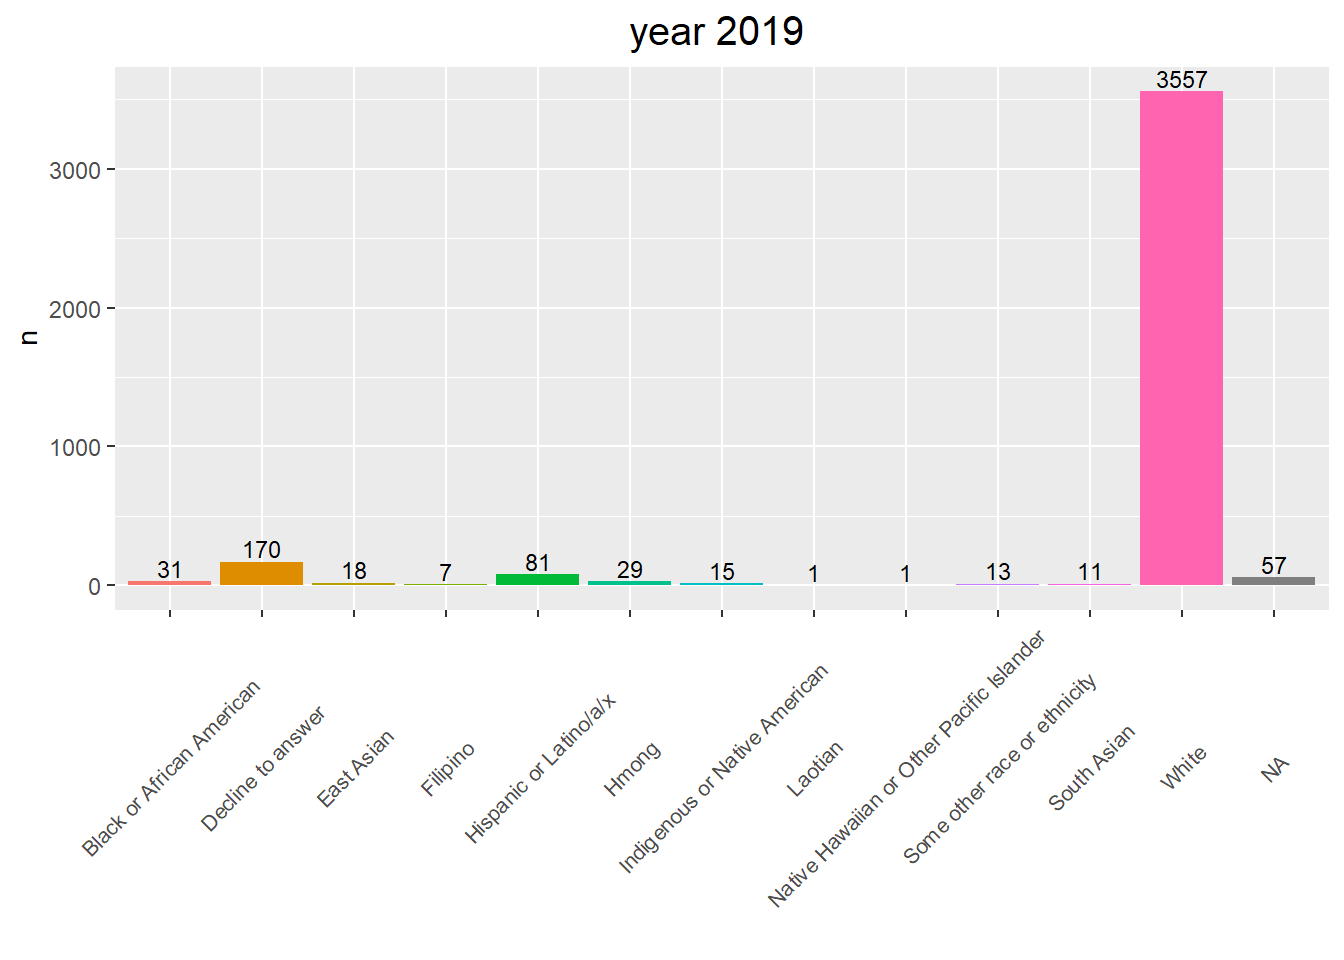
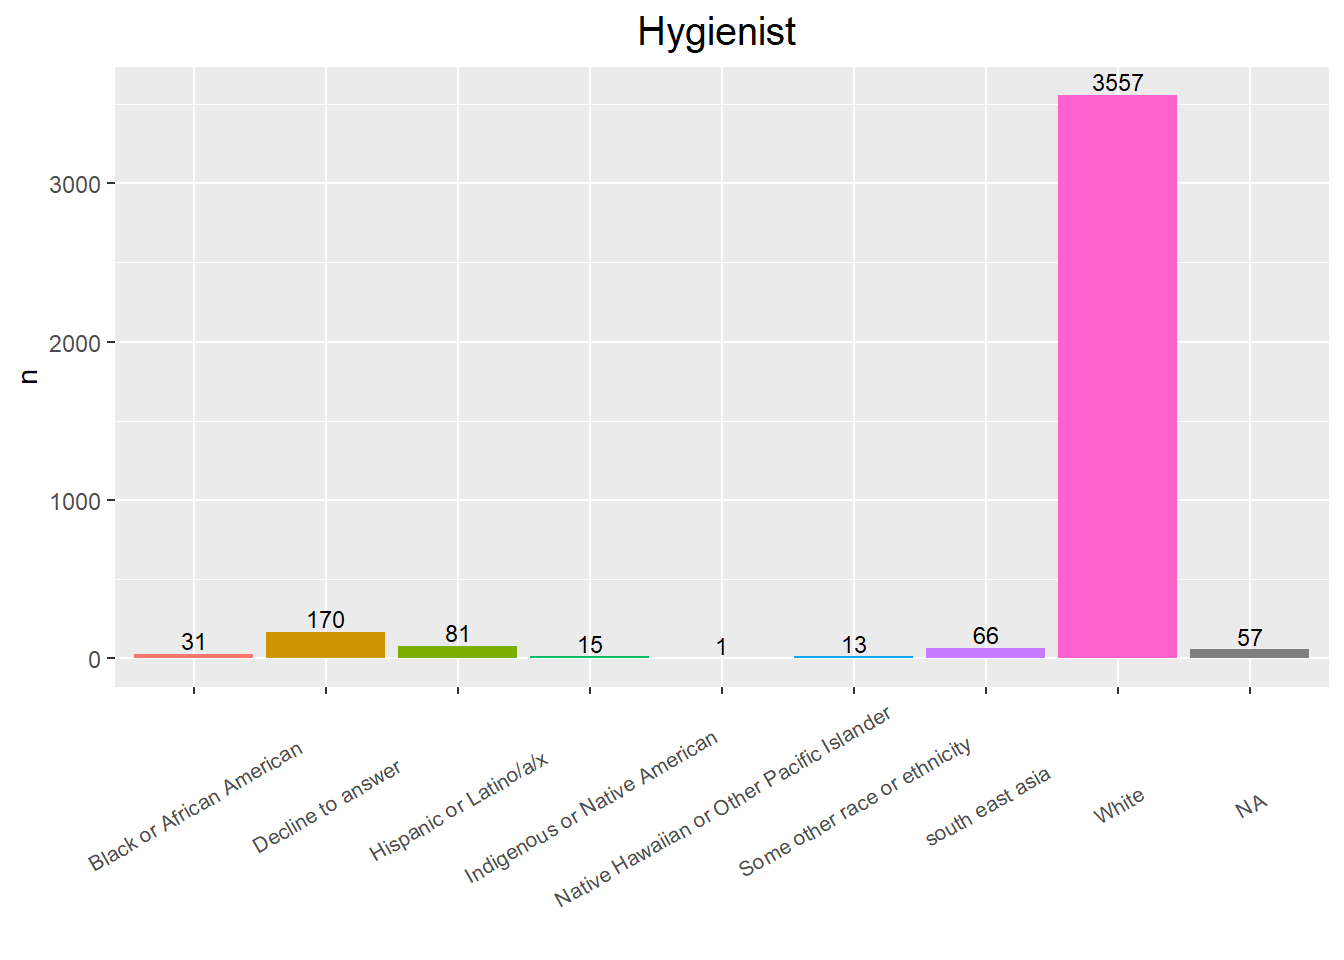
8/7/2024

diff --git a/docs/2024_0701_survey.html b/docs/2024_0701_survey.html
@@ -414,7 +414,7 @@ aria-hidden="true"></span> </a>
 <div class="tab-content">
 <div id="summary" class="tab-pane fade in active">
 <p>
-<strong>Last updated:</strong> 2024-08-01
+<strong>Last updated:</strong> 2024-08-07
 </p>
 <p>
 <strong>Checks:</strong> <span
@@ -574,15 +574,15 @@ analysis/Rfunctions.R
 <div class="panel panel-default">
 <div class="panel-heading">
 <p class="panel-title">
-<a data-toggle="collapse" data-parent="#workflowr-checks" href="#strongRepositoryversionstrongahrefhttpsgithubcomhan16Collaborationstree64cf62882a79ab5f4674752ec14fce842b363160targetblank64cf628a">
+<a data-toggle="collapse" data-parent="#workflowr-checks" href="#strongRepositoryversionstrongahrefhttpsgithubcomhan16Collaborationstree466390e8f161b7fc7e19d0f2d273fc3dc6c4f32etargetblank466390ea">
 <span class="glyphicon glyphicon-ok text-success"
 aria-hidden="true"></span> <strong>Repository version:</strong>
-<a href="https://github.com/han16/Collaborations/tree/64cf62882a79ab5f4674752ec14fce842b363160" target="_blank">64cf628</a>
+<a href="https://github.com/han16/Collaborations/tree/466390e8f161b7fc7e19d0f2d273fc3dc6c4f32e" target="_blank">466390e</a>
 </a>
 </p>
 </div>
 <div
[2 lines of base64/hex data omitted]
 class="panel-collapse collapse">
 <div class="panel-body">
 <p>
@@ -592,7 +592,7 @@ reproducibility.
 </p>
 <p>
 The results in this page were generated with repository version
-<a href="https://github.com/han16/Collaborations/tree/64cf62882a79ab5f4674752ec14fce842b363160" target="_blank">64cf628</a>.
+<a href="https://github.com/han16/Collaborations/tree/466390e8f161b7fc7e19d0f2d273fc3dc6c4f32e" target="_blank">466390e</a>.
 See the <em>Past versions</em> tab to see a history of the changes made
 to the R Markdown and HTML files.
 </p>
@@ -658,6 +658,57 @@ Message
 </tr>
 </thead>
 <tbody>
+<tr>
+<td>
+html
+</td>
+<td>
+<a href="https://rawcdn.githack.com/han16/Collaborations/466390e8f161b7fc7e19d0f2d273fc3dc6c4f32e/docs/2024_0701_survey.html" target="_blank">466390e</a>
+</td>
+<td>
+han
+</td>
+<td>
+2024-08-01
+</td>
+<td>
+8/1/2024
+</td>
+</tr>
+<tr>
+<td>
+Rmd
+</td>
+<td>
+<a href="https://github.com/han16/Collaborations/blob/3614a507dbc7b6e01ff872bdbb8b2925e9648d64/analysis/2024_0701_survey.Rmd" target="_blank">3614a50</a>
+</td>
+<td>
+han
+</td>
+<td>
+2024-08-01
+</td>
+<td>
+8/1/2024
+</td>
+</tr>
+<tr>
+<td>
+html
+</td>
+<td>
+<a href="https://rawcdn.githack.com/han16/Collaborations/3614a507dbc7b6e01ff872bdbb8b2925e9648d64/docs/2024_0701_survey.html" target="_blank">3614a50</a>
+</td>
+<td>
+han
+</td>
+<td>
+2024-08-01
+</td>
+<td>
+8/1/2024
+</td>
+</tr>
 <tr>
 <td>
 Rmd
@@ -750,14 +801,17 @@ variables</code></pre>
 [45] &quot;Other Race or Ethnicity&quot;                
 [46] &quot;Gender Identity&quot;                        </code></pre>
 <pre class="r"><code>race=Dental_Hygienist$`Dental H` %&gt;% dplyr::count(`Describe Your Race or Ethnicity`) %&gt;% mutate(prop=round(n/nrow(Dental_Hygienist$`Dental H`),4))
+south_east_asia=c(&quot;East Asian&quot;, &quot;Filipino&quot;, &quot;Hmong&quot;, &quot;Laotian&quot;, &quot;South Asian&quot;) # define south east asia countries 
+south_east_asia_race= race %&gt;% filter(`Describe Your Race or Ethnicity` %in% south_east_asia)
+race_new=race %&gt;% filter(`Describe Your Race or Ethnicity` %in% south_east_asia==F) %&gt;% add_row(`Describe Your Race or Ethnicity`=&quot;south east asia&quot;, n=south_east_asia_race %&gt;% select(n) %&gt;% sum(), prop=south_east_asia_race %&gt;% select(prop) %&gt;% sum()) # combine south east asia countries into one unit 
 
-ggplot(race, aes(x=`Describe Your Race or Ethnicity`, y=n, fill=`Describe Your Race or Ethnicity`)) +geom_bar(position = &quot;dodge&quot;, stat=&quot;identity&quot;)+
+ggplot(race_new, aes(x=`Describe Your Race or Ethnicity`, y=n, fill=`Describe Your Race or Ethnicity`)) +geom_bar(position = &quot;dodge&quot;, stat=&quot;identity&quot;)+
  # ylim(c(0, 0.7))+
   ylab(&quot;n&quot;)+xlab(&quot;&quot;)+
   theme(legend.position=&quot;&quot;)+
-  theme(axis.text.x = element_text(angle = 45, vjust = 0.5, size=8))+
-  geom_text(aes(label=race$n), position=position_dodge(width=0.9), vjust=-0.25, size=3)+  # add numbers over bars
-  ggtitle(&quot;year 2019 &quot;)+
+  theme(axis.text.x = element_text(angle = 30, vjust = 0.5, size=8))+
+  geom_text(aes(label=race_new$n), position=position_dodge(width=0.9), vjust=-0.25, size=3)+  # add numbers over bars
+  ggtitle(&quot;Hygienist &quot;)+
   theme(plot.title = element_text(hjust = 0.5, size=15))  #center the title</code></pre>
 <p><img src="figure/2024_0701_survey.Rmd/unnamed-chunk-4-1.png" width="672" style="display: block; margin: auto;" /></p>
 <p>
@@ -784,6 +838,17 @@ Date
 <tbody>
 <tr>
 <td>
+<a href="https://github.com/han16/Collaborations/blob/466390e8f161b7fc7e19d0f2d273fc3dc6c4f32e/docs/figure/2024_0701_survey.Rmd/unnamed-chunk-4-1.png" target="_blank">466390e</a>
+</td>
+<td>
+han
+</td>
+<td>
+2024-08-01
+</td>
+</tr>
+<tr>
+<td>
 <a href="https://github.com/han16/Collaborations/blob/3614a507dbc7b6e01ff872bdbb8b2925e9648d64/docs/figure/2024_0701_survey.Rmd/unnamed-chunk-4-1.png" target="_blank">3614a50</a>
 </td>
 <td>
@@ -797,16 +862,53 @@ han
 </table>
 </div>
 </div>
-<pre class="r"><code>ggplot(race, aes(x=`Describe Your Race or Ethnicity`, y=prop, fill=`Describe Your Race or Ethnicity`)) +geom_bar(position = &quot;dodge&quot;, stat=&quot;identity&quot;)+
+<pre class="r"><code>ggplot(race_new, aes(x=`Describe Your Race or Ethnicity`, y=prop, fill=`Describe Your Race or Ethnicity`)) +geom_bar(position = &quot;dodge&quot;, stat=&quot;identity&quot;)+
  # ylim(c(0, 0.7))+
   ylab(&quot;%&quot;)+xlab(&quot;&quot;)+
   theme(legend.position=&quot;&quot;)+
-  theme(axis.text.x = element_text(angle = 45, vjust = 0.5, size=8))+
-  geom_text(aes(label=race$prop*100), position=position_dodge(width=0.9), vjust=-0.25, size=3)+  # add numbers over bars
-  ggtitle(&quot;year 2019 &quot;)+
+  theme(axis.text.x = element_text(angle = 30, vjust = 0.5, size=8))+
+  geom_text(aes(label=race_new$prop*100), position=position_dodge(width=0.9), vjust=-0.25, size=3)+  # add numbers over bars
+  ggtitle(&quot;Hygienist &quot;)+
   theme(plot.title = element_text(hjust = 0.5, size=15))  #center the title</code></pre>
 <p><img src="figure/2024_0701_survey.Rmd/unnamed-chunk-4-2.png" width="672" style="display: block; margin: auto;" /></p>
-<pre class="r"><code>race%&gt;%
+<p>
+<button type="button" class="btn btn-default btn-xs btn-workflowr btn-workflowr-fig" data-toggle="collapse" data-target="#fig-unnamed-chunk-4-2">
+Past versions of unnamed-chunk-4-2.png
+</button>
+</p>
+<div id="fig-unnamed-chunk-4-2" class="collapse">
+<div class="table-responsive">
+<table class="table table-condensed table-hover">
+<thead>
+<tr>
+<th>
+Version
+</th>
+<th>
+Author
+</th>
+<th>
+Date
+</th>
+</tr>
+</thead>
+<tbody>
+<tr>
+<td>
+<a href="https://github.com/han16/Collaborations/blob/466390e8f161b7fc7e19d0f2d273fc3dc6c4f32e/docs/figure/2024_0701_survey.Rmd/unnamed-chunk-4-2.png" target="_blank">466390e</a>
+</td>
+<td>
+han
+</td>
+<td>
+2024-08-01
+</td>
+</tr>
+</tbody>
+</table>
+</div>
+</div>
+<pre class="r"><code>race_new%&gt;%
 datatable(extensions = &#39;Buttons&#39;,
           caption = &quot;&quot;,
             options = list(dom = &#39;Blfrtip&#39;,
@@ -814,7 +916,7 @@ datatable(extensions = &#39;Buttons&#39;,
                            lengthMenu = list(c(10,25,50,-1),
                                              c(10,25,50,&quot;All&quot;))))</code></pre>
 <div class="datatables html-widget html-fill-item" id="htmlwidget-9eceb20dc2a931752ae4" style="width:100%;height:auto;"></div>
-<script type="application/json" data-for="htmlwidget-9eceb20dc2a931752ae4">{"x":{"filter":"none","vertical":false,"extensions":["Buttons"],"caption":"<caption><\/caption>","data":[["1","2","3","4","5","6","7","8","9","10","11","12","13"],["Black or African American","Decline to answer","East Asian","Filipino","Hispanic or Latino/a/x","Hmong","Indigenous or Native American","Laotian","Native Hawaiian or Other Pacific Islander","Some other race or ethnicity","South Asian","White",null],[31,170,18,7,81,29,15,1,1,13,11,3557,57],[0.0078,0.0426,0.0045,0.0018,0.0203,0.0073,0.0038,0.0003,0.0003,0.0033,0.0028,0.8913,0.0143]],"container":"<table class=\"display\">\n  <thead>\n    <tr>\n      <th> <\/th>\n      <th>Describe Your Race or Ethnicity<\/th>\n      <th>n<\/th>\n      <th>prop<\/th>\n    <\/tr>\n  <\/thead>\n<\/table>","options":{"dom":"Blfrtip","buttons":["copy","csv","excel","pdf","print"],"lengthMenu":[[10,25,50,-1],["10","25","50","All"]],"columnDefs":[{"className":"dt-right","targets":[2,3]},{"orderable":false,"targets":0},{"name":" ","targets":0},{"name":"Describe Your Race or Ethnicity","targets":1},{"name":"n","targets":2},{"name":"prop","targets":3}],"order":[],"autoWidth":false,"orderClasses":false},"selection":{"mode":"multiple","selected":null,"target":"row","selectable":null}},"evals":[],"jsHooks":[]}</script>
+<script type="application/json" data-for="htmlwidget-9eceb20dc2a931752ae4">{"x":{"filter":"none","vertical":false,"extensions":["Buttons"],"caption":"<caption><\/caption>","data":[["1","2","3","4","5","6","7","8","9"],["Black or African American","Decline to answer","Hispanic or Latino/a/x","Indigenous or Native American","Native Hawaiian or Other Pacific Islander","Some other race or ethnicity","White",null,"south east asia"],[31,170,81,15,1,13,3557,57,66],[0.0078,0.0426,0.0203,0.0038,0.0003,0.0033,0.8913,0.0143,0.0167]],"container":"<table class=\"display\">\n  <thead>\n    <tr>\n      <th> <\/th>\n      <th>Describe Your Race or Ethnicity<\/th>\n      <th>n<\/th>\n      <th>prop<\/th>\n    <\/tr>\n  <\/thead>\n<\/table>","options":{"dom":"Blfrtip","buttons":["copy","csv","excel","pdf","print"],"lengthMenu":[[10,25,50,-1],["10","25","50","All"]],"columnDefs":[{"className":"dt-right","targets":[2,3]},{"orderable":false,"targets":0},{"name":" ","targets":0},{"name":"Describe Your Race or Ethnicity","targets":1},{"name":"n","targets":2},{"name":"prop","targets":3}],"order":[],"autoWidth":false,"orderClasses":false},"selection":{"mode":"multiple","selected":null,"target":"row","selectable":null}},"evals":[],"jsHooks":[]}</script>
 <br>
 <p>
 <button type="button" class="btn btn-default btn-workflowr btn-workflowr-sessioninfo" data-toggle="collapse" data-target="#workflowr-sessioninfo" style="display: block;">
